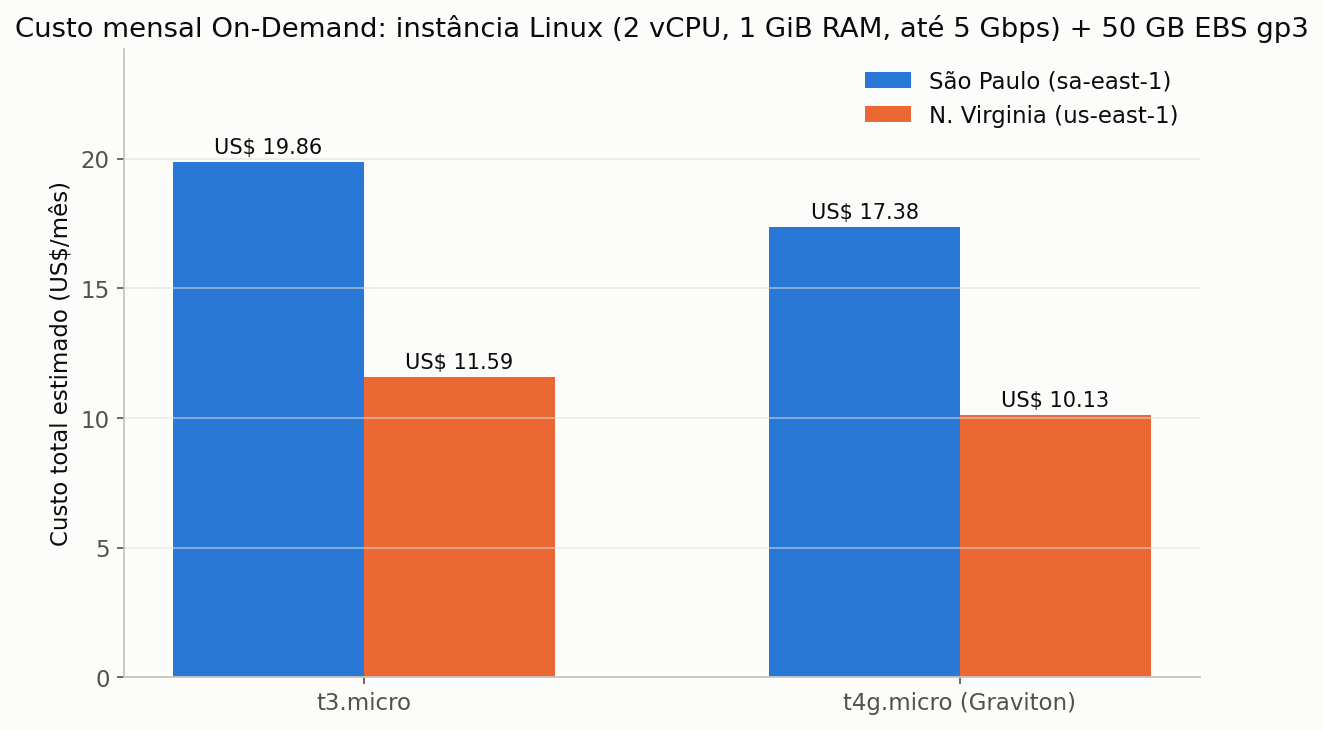
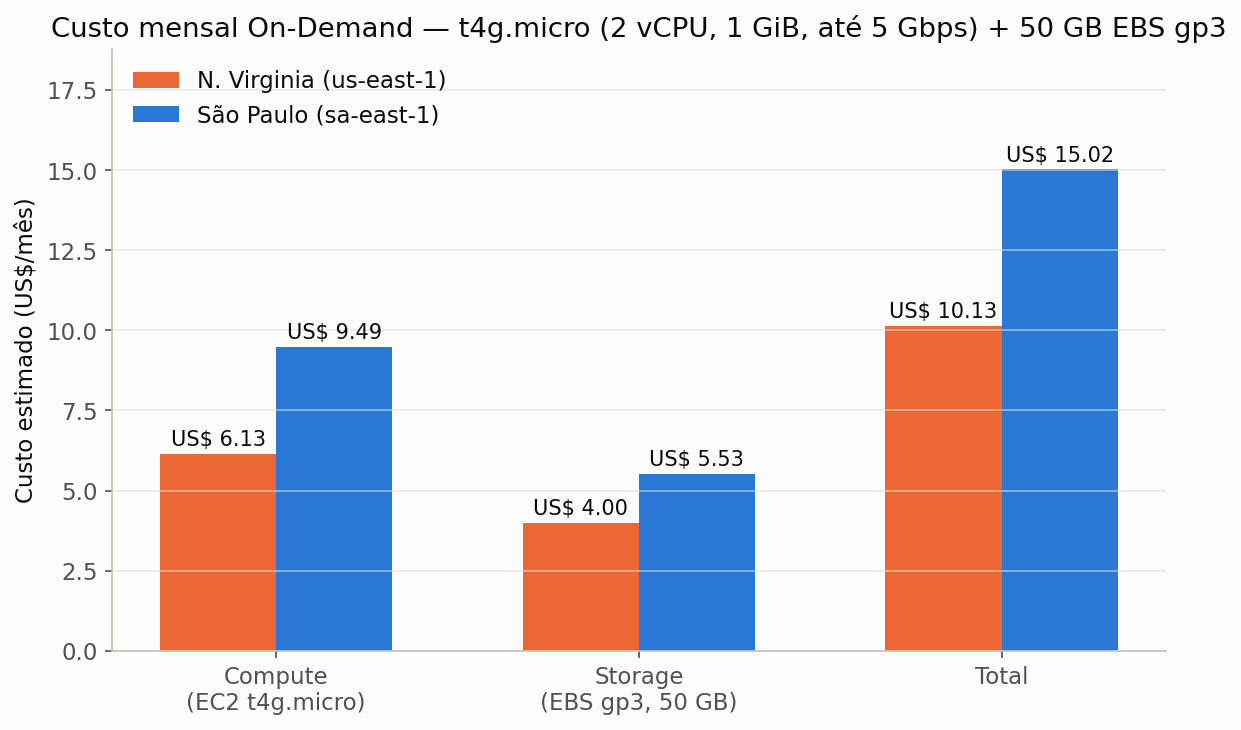
Replace Entrega 2 with real AWS Pricing Calculator screenshots
Uses actual calculator screenshots and figures gathered by a teammate
(t4g.micro, sa-east-1 vs us-east-1) instead of the third-party pricing
API estimate, and reframes the legal/latency justification for the
FarmTech Solutions context.

diff --git a/Fase_05/Atv_01/README.md b/Fase_05/Atv_01/README.md
@@ -68,83 +68,82 @@ modelo de Machine Learning, em uma máquina Linux simples com:
 | Armazenamento | 50 GB (HD/SSD) |
 | Tipo de cotação | On-Demand — 100% |
 
-### 1. Comparação de custos: São Paulo (sa-east-1) x N. Virginia (us-east-1)
+Utilizamos a [calculadora pública de estimativa de custos da AWS](https://calculator.aws)
+(*Create estimate*) para simular os dois cenários possíveis — São Paulo e N. Virginia —
+com essa configuração.
 
-Duas famílias de instância EC2 atendem exatamente essas 4 especificações — **2 vCPUs,
-1 GiB de RAM e rede "Até 5 Gigabit"** — no catálogo da AWS: `t3.micro` (x86) e
-`t4g.micro` (ARM/Graviton, mais barata para a mesma configuração). O `t2.micro`
-(frequentemente lembrado por ser o de "camada gratuita") **não atende ao requisito de
-rede** (é classificado como "Baixo a Moderado", não "Até 5 Gigabit"), por isso não foi
-considerado.
+### 1. Escolha da instância e da região
 
-Valores **On-Demand, Linux**, cotados na calculadora de preços da AWS (Price List API)
-em 07/09/2026:
+Buscando a solução mais econômica que atendesse aos 4 requisitos, a própria calculadora
+aponta a `t4g.micro` (processador AWS Graviton2, arquitetura ARM) como a instância de
+menor custo disponível para "2 vCPU, 1 GiB de Memória, Até 5 Gigabit de rede":
 
-| Instância | vCPU | RAM | Rede | São Paulo (sa-east-1) | N. Virginia (us-east-1) |
-|---|---|---|---|---|---|
-| `t3.micro` | 2 | 1 GiB | Até 5 Gbps | US$ 0,0168/h (≈ US$ 12,26/mês) | US$ 0,0104/h (≈ US$ 7,59/mês) |
-| `t4g.micro` | 2 | 1 GiB | Até 5 Gbps | US$ 0,0134/h (≈ US$ 9,78/mês) | US$ 0,0084/h (≈ US$ 6,13/mês) |
+![Seleção da instância t4g.micro na calculadora AWS, filtrada por 2 vCPU, 1 GiB e rede até 5 Gigabit](./imagens/aws_instancia_calculadora.png)
 
-Armazenamento **EBS gp3, 50 GB**:
+Para o armazenamento, optamos pelo **Amazon EBS gp3** (50 GB), que oferece a melhor
+relação custo-benefício, com 3.000 IOPS e 125 MB/s de taxa de transferência inclusos na
+faixa de preço base.
 
-| Região | US$/GB-mês | 50 GB/mês |
+Apesar de existir a opção de preço mais baixo nos EUA, a região foi decidida por
+critérios que vão além do custo (ver seção 2) — optamos pela **América do Sul (São
+Paulo)**:
+
+![Seleção da região América do Sul (São Paulo) na calculadora AWS](./imagens/aws_regiao_calculadora.png)
+
+**📊 Comparativo mensal (estimativa na AWS Pricing Calculator, On-Demand, Linux):**
+
+| Recurso AWS | 🇺🇸 us-east-1 (N. Virginia) | 🇧🇷 sa-east-1 (São Paulo) |
 |---|---|---|
-| São Paulo (sa-east-1) | US$ 0,152 | US$ 7,60 |
-| N. Virginia (us-east-1) | US$ 0,08 | US$ 4,00 |
+| Compute (EC2 `t4g.micro`) | ~US$ 6,13/mês | ~US$ 9,49/mês |
+| Storage (50 GB EBS `gp3`) | ~US$ 4,00/mês | ~US$ 5,53/mês |
+| **Custo total estimado** | **~US$ 10,13/mês** | **~US$ 15,02/mês** |
 
-**Custo total mensal estimado** (instância 24×7 + 50 GB de armazenamento):
+![Comparativo de custo mensal AWS entre N. Virginia e São Paulo](./imagens/aws_custo_comparativo.png)
 
-![Comparativo de custo mensal AWS entre São Paulo e N. Virginia](./imagens/aws_custo_comparativo.png)
-
-| Configuração | São Paulo | N. Virginia | Diferença |
-|---|---|---|---|
-| `t3.micro` + 50 GB gp3 | US$ 19,86/mês | US$ 11,59/mês | São Paulo é **+71%** mais cara |
-| `t4g.micro` + 50 GB gp3 | US$ 17,38/mês | US$ 10,13/mês | São Paulo é **+72%** mais cara |
-
-**Solução mais barata:** `t4g.micro` em **N. Virginia (us-east-1)**, a ~US$ 10,13/mês —
-a opção Graviton (ARM) é a mais econômica em ambas as regiões, e N. Virginia é
-sistematicamente mais barata que São Paulo para a mesma configuração (a AWS tem mais
-capacidade instalada e concorrência de datacenters na região histórica dos EUA, o que
-pressiona os preços para baixo).
+*(Custos de transferência de dados de saída não estão inclusos, pois dependem do volume
+de tráfego da API e, a princípio, não ultrapassam o limite do Free Tier.)*
 
 > 🔁 **Reproduza você mesmo na calculadora oficial** (para o print/vídeo da entrega):
 > 1. Acesse a [AWS Pricing Calculator](https://calculator.aws) → *Create estimate* → *Amazon EC2*.
 > 2. Sistema operacional: **Linux**. Cotação: **On-Demand**.
-> 3. Em "Number of instances": `1`. Em "vCPUs": filtre por `2`, em "Memory": `1 GiB` — selecione `t3.micro` (e repita para `t4g.micro`).
+> 3. Em "Memória (GiB)": `1 GiB`, em "Desempenho de rede": `Up to 5 Gigabit` — selecione `t4g.micro`.
 > 4. Storage: adicione um volume **EBS gp3 de 50 GB**.
-> 5. Troque a região no topo da página entre **South America (São Paulo)** e **US East (N. Virginia)** e compare o total mensal exibido.
+> 5. Troque a região no topo da página entre **América do Sul (São Paulo)** e **Leste dos EUA (N. da Virgínia)** e compare o total mensal exibido.
+
+**💡 Free Tier:** a `t4g.micro` também está incluída no nível gratuito da AWS — até 750
+horas mensais sem custo, um incentivo a mais para validar o modelo em produção antes de
+escalar:
+
+![Tabela do AWS Free Tier mostrando o Amazon EC2 com t4g.micro incluído](./imagens/aws_free_tier.png)
 
 ### 2. Qual região escolher, considerando acesso rápido aos dados e restrições legais?
 
-Apesar de N. Virginia ser ~70% mais barata, a **recomendação para este cenário é
-hospedar em São Paulo (sa-east-1)**. Justificativa:
+Apesar de a região de N. Virginia apresentar um custo ~30-35% menor, a **recomendação
+para este cenário é hospedar em São Paulo (sa-east-1)**. Justificativa:
 
-- **Restrições legais (LGPD):** a Lei Geral de Proteção de Dados (Lei nº 13.709/2018)
-  impõe regras específicas para **transferência internacional de dados** (Art. 33) quando
-  os dados envolvem informações de uma pessoa natural identificável. Os dados de sensores
-  em si (clima/solo) tendem a ser dados não-pessoais, mas, na prática, um sistema de
-  monitoramento de fazenda normalmente também guarda dados do produtor rural, contratos e
-  geolocalização de propriedade privada — o que pode caracterizar dado pessoal. **Manter
-  a infraestrutura em território nacional (sa-east-1) elimina totalmente essa discussão
-  jurídica**, evitando o custo/risco de análise de conformidade para transferência
-  internacional, cláusulas contratuais específicas, ou eventual exigência contratual do
-  cliente (comum em contratos do agronegócio brasileiro) de que os dados não saiam do país.
-- **Latência / acesso rápido aos dados:** a fazenda e seus sensores estão no Brasil. A
-  distância física até `sa-east-1` (São Paulo) é uma fração da distância até
-  `us-east-1` (Virgínia, EUA) — na prática, isso normalmente significa uma latência de
-  ida-e-volta de dezenas de milissegundos para o Brasil, contra mais de cem
-  milissegundos para os EUA. Para uma API que recebe leituras de sensores continuamente e
-  precisa responder rápido (ex.: alertas quase em tempo real), essa diferença é
-  perceptível e relevante.
-- **Custo/benefício:** o adicional de ~US$ 7-8/mês (diferença entre as regiões) é um
-  valor baixo em termos absolutos para uma carga de trabalho desse porte, e é um preço
-  razoável a pagar para eliminar risco legal e reduzir latência — a decisão não é "a
-  mais barata no papel", e sim a mais adequada ao conjunto de requisitos do problema.
+- **⚡ Baixa latência / acesso rápido aos dados:** os sensores instalados na fazenda e no
+  maquinário agrícola enviam fluxos contínuos de dados (telemetria, clima local, estado
+  do solo). Uma rota até `us-east-1` (N. Virginia) tem latência média de **110 a 150 ms**;
+  até `sa-east-1` (São Paulo), de **10 a 30 ms**. Para que o modelo preditivo da Entrega 1
+  atue quase em tempo real — alertando o produtor antes que uma condição de risco se
+  agrave —, essa diferença de ~100 ms é relevante.
+- **🛡 Soberania de dados e conformidade legal (LGPD):** o sistema lida com geolocalização
+  exata das propriedades rurais atendidas, dados contratuais dos produtores e padrões
+  operacionais das máquinas — informações potencialmente sensíveis. A Lei Geral de
+  Proteção de Dados (Lei nº 13.709/2018) impõe regras específicas para **transferência
+  internacional de dados** (Art. 33), e contratos do agronegócio brasileiro
+  frequentemente exigem ou recomendam que dados de clientes nacionais não cruzem
+  fronteiras. Manter a infraestrutura em território nacional elimina essa discussão
+  jurídica e mitiga riscos de auditoria.
+- **Custo/benefício:** o investimento adicional de ~US$ 5/mês compensa amplamente o
+  ganho em segurança jurídica e em desempenho da aplicação — a decisão não é "a mais
+  barata no papel", e sim a mais adequada ao conjunto de requisitos do problema.
 
-**Conclusão:** a instância mais barata (`t4g.micro` em N. Virginia) responde à
-pergunta 1 (menor custo, sem outras restrições); já a pergunta 2 muda o cálculo — com
-exigência de acesso rápido e restrição legal de armazenamento no exterior, a escolha
-correta é `t4g.micro` (ou `t3.micro`) **em São Paulo (sa-east-1)**.
+**Conclusão:** a instância mais barata em termos absolutos é a `t4g.micro` em
+**N. Virginia** (~US$ 10,13/mês) — resposta à pergunta 1, sem outras restrições. Já a
+pergunta 2 muda o cálculo: com exigência de acesso rápido aos dados dos sensores e
+restrição legal de armazenamento no exterior, a escolha correta é `t4g.micro`
+**em São Paulo (sa-east-1)** (~US$ 15,02/mês).
 
 - 🎥 **Vídeo demonstrativo (não listado, até 5 min):** `[LINK DO YOUTUBE]`
 
